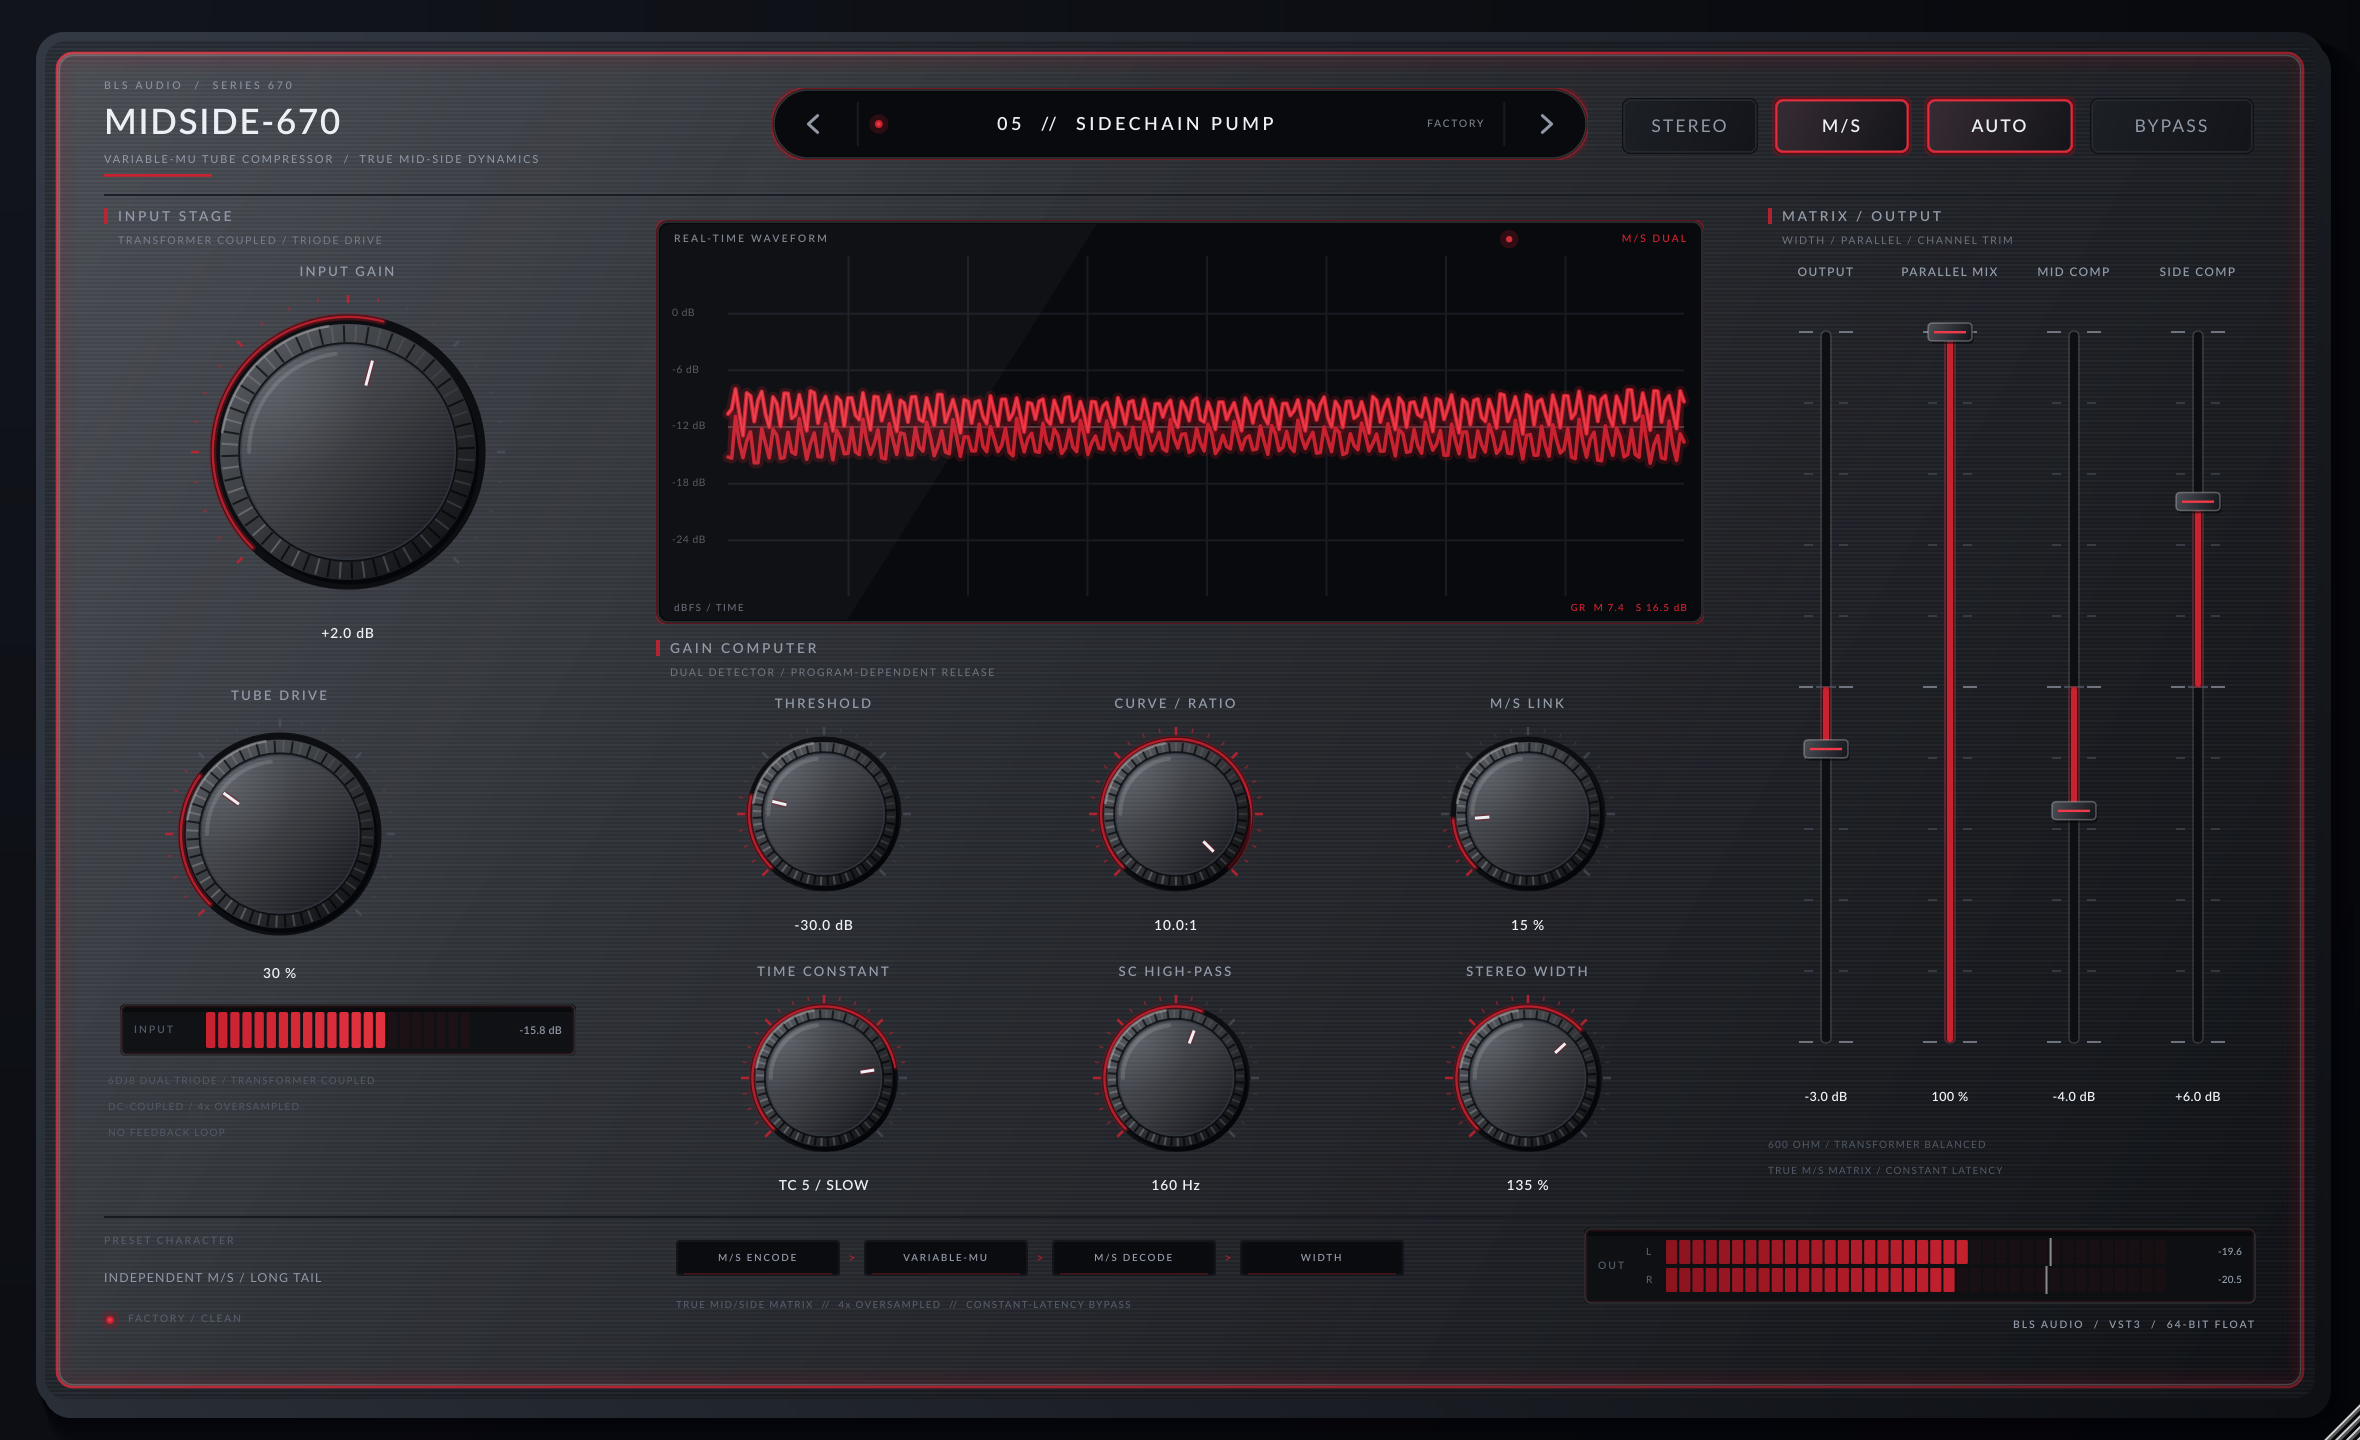
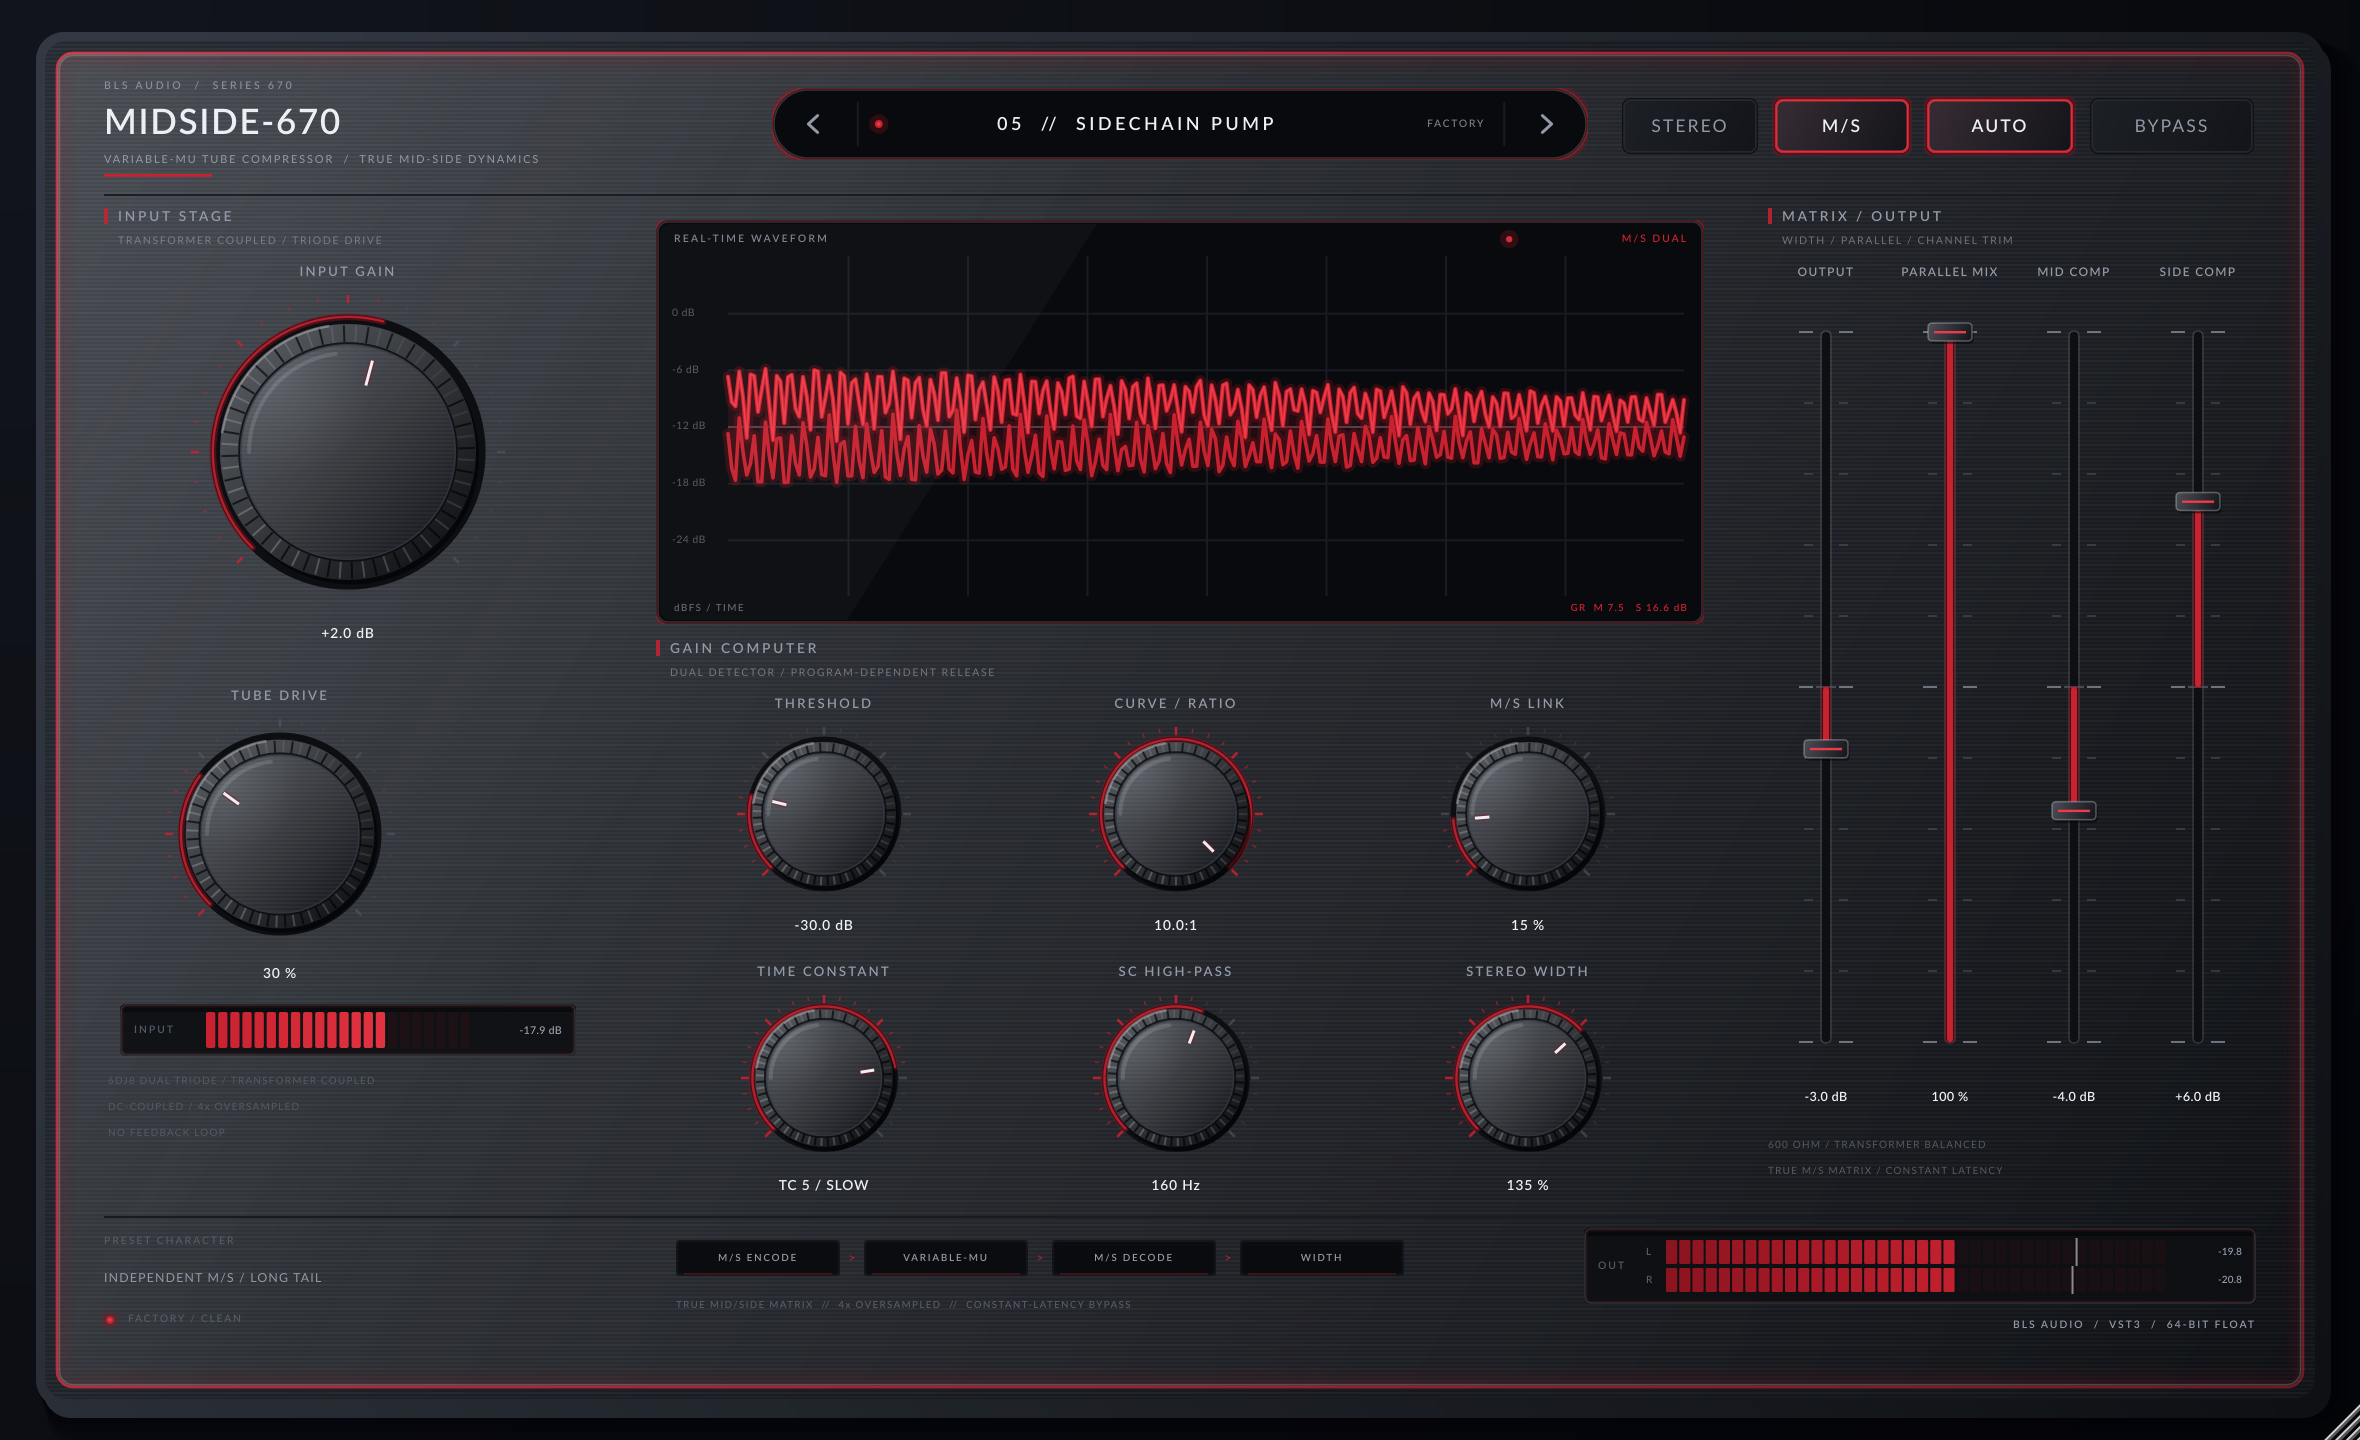
Release v2.0.0: studio-hardware redesign and live waveform
- Bump the project version to 2.0.0 so VST3 metadata, artifacts, and
  host-reported versions identify the new release.
- Add CHANGELOG.md and docs/releases/v2.0.0.md with the v2 highlights
  and explicit v1.0.0 session/preset compatibility.
- Publish docs/releases/<tag>.md as the GitHub Release body ahead of
  generated notes, with a safe fallback when no notes file exists.
- Refresh the reference UI screenshot from the v2.0.0 build.
- Correct the waveform window comment (256 columns, ~0.34 s).

Changed region(s): [[0.3093, 0.25, 0.7114, 0.3438]]

diff --git a/Tools/RenderEditor.cpp b/Tools/RenderEditor.cpp
@@ -12,7 +12,7 @@ class MidSide670RenderApplication final : public juce::JUCEApplication,
 {
 public:
     const juce::String getApplicationName() override { return "MidSide-670 Screenshot"; }
-    const juce::String getApplicationVersion() override { return "1.0.0"; }
+    const juce::String getApplicationVersion() override { return "2.0.0"; }
     bool moreThanOneInstanceAllowed() override { return true; }
     void anotherInstanceStarted (const juce::String&) override {}
     void systemRequestedQuit() override {}

diff --git a/Source/PluginProcessor.cpp b/Source/PluginProcessor.cpp
@@ -139,7 +139,7 @@ void MidSide670AudioProcessor::prepareToPlay (double sampleRate, int samplesPerB
     gainReductionSide.store (0.0f, std::memory_order_relaxed);
 
     // Keep roughly 750 waveform columns per second at any sample rate, which
-    // gives the display a ~0.7 second window at its 512-column view.
+    // gives the display a ~0.34 second window at its 256-column view.
     waveformSamplesPerColumn = juce::jmax (8, juce::roundToInt (currentSampleRate / 750.0));
     resetWaveformHistory();
 }

diff --git a/CHANGELOG.md b/CHANGELOG.md
@@ -1,0 +1,55 @@
+# Changelog
+
+All notable changes to MidSide-670 are documented in this file. The project uses
+[Semantic Versioning](https://semver.org/spec/v2.0.0.html).
+
+## [2.0.0] - 2026-10-26
+
+**Studio-hardware redesign with a live waveform screen.** The audio engine,
+parameter set, and factory presets are unchanged.
+
+### Added
+
+- **Central live waveform screen** — a large obsidian display fed by lock-free
+  min/max telemetry from the audio thread. The trace follows the true stereo
+  envelope (so anti-phase and side-only material stays visible), updates at
+  roughly 750 columns per second, and is drawn as a three-layer crimson glow
+  over a dB/time grid with live MID/SIDE gain-reduction readouts.
+- Waveform telemetry coverage in the DSP test suite: column ordering and live
+  signal presence.
+
+### Changed
+
+- **Complete visual redesign** — MidSide-670 now renders as a dark, brushed
+  gunmetal desktop unit on a shadowed studio surface, under a flush, screwless
+  glass panel with a muted crimson LED edge-glow and upper-left soft-box
+  reflections.
+- Replaced `RetroLookAndFeel` with `StudioLookAndFeel` and rebuilt the theme
+  palette around gunmetal, obsidian, smoked glass, and crimson.
+- Rebuilt every control: heavy-machined low-profile knurled knobs with crimson
+  under-glow, ultra-thin recessed glass sliders, thin red-bordered tactile
+  buttons, and slim glass input/output meters.
+- Moved preset navigation into a slender top-centre pill readout with `<` / `>`
+  chevrons and a click-to-open factory preset menu.
+- Added a fixed `1180 × 720` design canvas with aspect-locked, resolution-
+  independent scaling from 885 × 540 up to 1770 × 1080.
+- Refreshed the README and the reference UI screenshot.
+
+### Compatibility
+
+- Audio engine, parameter IDs and ranges, preset data, and state layout are
+  unchanged. Sessions and presets saved with v1.0.0 recall with identical
+  settings and sound.
+- Constant-latency bypass is preserved.
+
+## [1.0.0] - 2026-10-24
+
+- First public release: true Mid/Side variable-mu compressor with linked
+  STEREO mode, six Fairchild-style time constants, 4× oversampled tube input
+  stage, sidechain high-pass, parallel mix, stereo width, automatic make-up,
+  and latency-matched bypass.
+- VST3 and Standalone builds for Windows x64, Linux x64, and macOS Universal
+  (`arm64` + `x86_64`), published with SHA-256 checksums.
+
+[2.0.0]: https://github.com/briansilberbauer-gamatam/MidSide-670/releases/tag/v2.0.0
+[1.0.0]: https://github.com/briansilberbauer-gamatam/MidSide-670/releases/tag/v1.0.0

diff --git a/docs/releases/v2.0.0.md b/docs/releases/v2.0.0.md
@@ -1,0 +1,46 @@
+MidSide-670 v2.0.0 is the **studio-hardware redesign**: the same true Mid/Side
+variable-mu compressor, rebuilt as a dark brushed-gunmetal desktop unit under a
+flush, screwless glass panel — with a live waveform screen at its centre.
+
+## Highlights
+
+- **New brushed-gunmetal and glass interface.** A dimensional desktop unit sits
+  on a shadowed studio surface, lit from the upper left. The chassis has fine
+  horizontal brushed grain, chamfered matte edges, and a subtle muted-crimson
+  LED edge-glow that refracts inward through the flush glass overlay. No
+  visible screws or fasteners.
+- **Live central waveform screen.** A real-time crimson trace over a dB/time
+  grid, fed by lock-free min/max telemetry from the audio thread at roughly
+  750 columns per second. It follows the true stereo envelope, so side-only and
+  anti-phase material stays visible. Live MID/SIDE gain reduction is shown in
+  the screen corner.
+- **Hardware-grade controls.** Heavy-machined low-profile knobs with fine
+  vertical knurling and a crimson under-glow, ultra-thin recessed glass
+  sliders, and low-profile tactile buttons outlined by a thin red glow when
+  active.
+- **Preset pill readout.** The top-centre pill shows the current factory
+  preset; step with `<` / `>` or click the name for the preset menu.
+- **Scales cleanly.** A fixed 1180 × 720 design canvas scales with the window
+  and preserves its aspect ratio from 885 × 540 up to 1770 × 1080.
+
+## Compatibility
+
+- **Same sound.** The DSP engine, parameter IDs and ranges, factory presets,
+  and state layout are unchanged. Sessions and presets saved with v1.0.0 recall
+  with identical settings and identical audio.
+- Constant-latency, phase-aligned bypass is preserved.
+- VST3 and Standalone builds are provided for **Windows x64**, **Linux x64**,
+  and **macOS Universal** (`arm64` + `x86_64`). Every archive ships with a
+  SHA-256 checksum.
+
+## Install
+
+- **Windows:** copy `MidSide-670.vst3` to `C:\Program Files\Common Files\VST3\`.
+- **macOS:** copy `MidSide-670.vst3` to `~/Library/Audio/Plug-Ins/VST3/`.
+- **Linux:** copy `MidSide-670.vst3` to `~/.vst3/`.
+
+The Standalone application is included in each archive. On macOS and Windows the
+builds are unsigned/ad-hoc signed, so your OS may ask you to confirm the first
+launch.
+
+**Full changelog:** [CHANGELOG.md](https://github.com/briansilberbauer-gamatam/MidSide-670/blob/main/CHANGELOG.md)

diff --git a/README.md b/README.md
@@ -116,6 +116,8 @@ The Standalone build can be launched directly from `dist/MidSide-670`.
 
 `.github/workflows/build.yml` builds and tests Windows x64, Linux x64 and macOS Universal (`arm64` + `x86_64`) binaries, packages VST3 + Standalone distributions with SHA-256 checksums, and publishes them to GitHub Releases for `v*` tags or a manual `workflow_dispatch` release tag.
 
+The current release is **v2.0.0**, the studio-hardware redesign with a live waveform screen. See [CHANGELOG.md](CHANGELOG.md) for the full history; v2 leaves the audio engine, parameters, and factory presets unchanged from v1.0.0.
+
 ## Notes
 
 MidSide-670 is an original design inspired by the behaviour of classic variable-mu compressors. It is not affiliated with, endorsed by, or a model of any particular vintage hardware manufacturer. Fairchild is a trademark of its respective owner. The bundled Lato typefaces are licensed under the SIL Open Font License; see `Resources/Lato-OFL.txt`.
